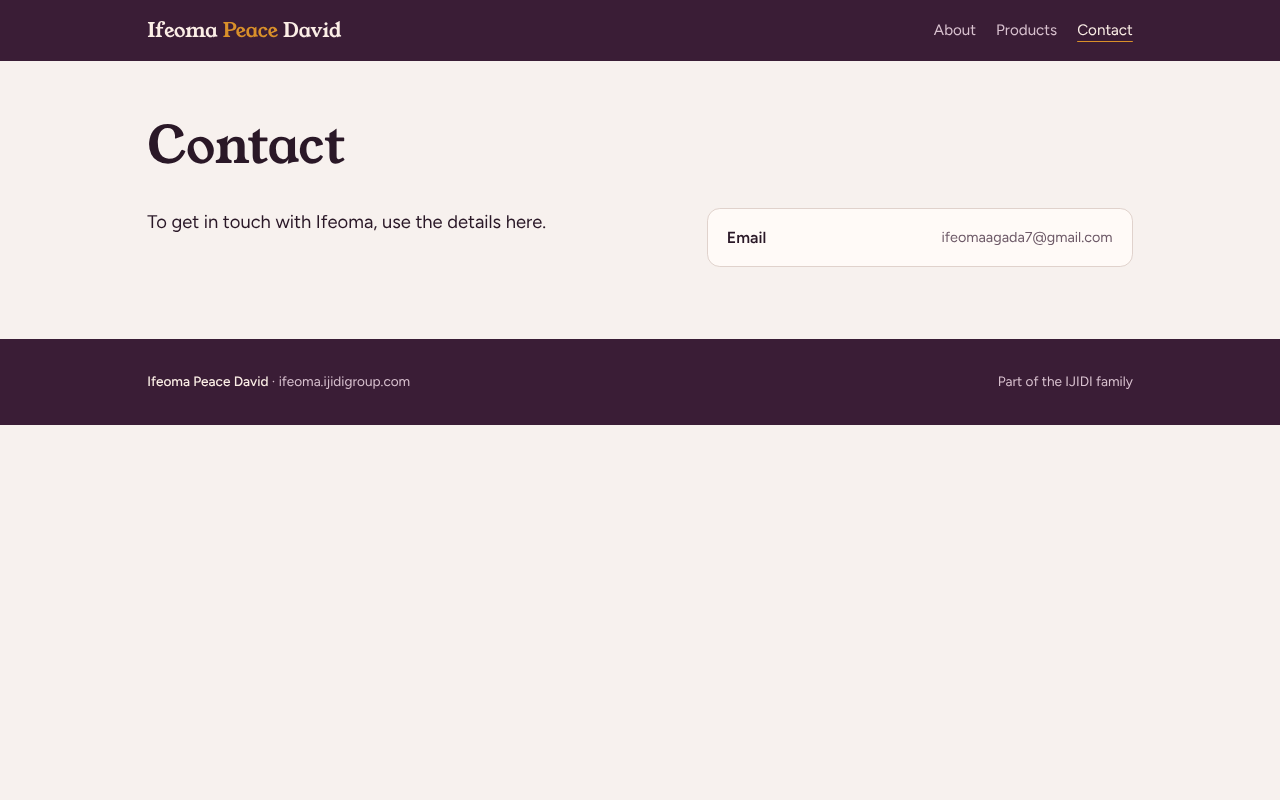
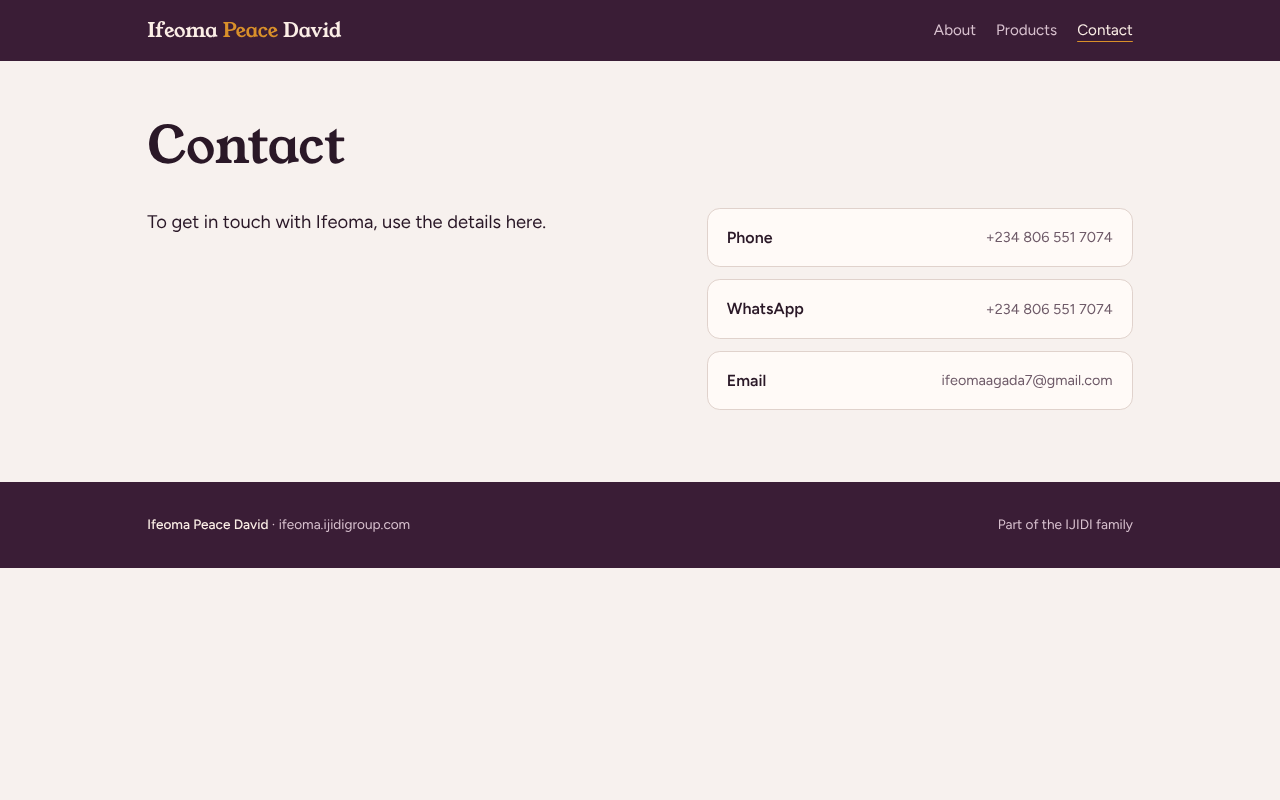
Add phone and WhatsApp to Contact
Phone (+234 806 551 7074) links with tel:, WhatsApp opens wa.me in a
new tab, and both sit above Email. Numbers are stored once in
international format in src/content.js and shown with spaces.

Claude-Session: https://claude.ai/code/session_01JR5joPnqPxFUZjK7t2UKEn

diff --git a/src/main.js b/src/main.js
@@ -9,7 +9,16 @@ const esc = (s) =>
 // Missing content renders nothing on the live site; in dev it shows where the gap is.
 const todo = (text) => (DEV ? `<div class="todo"><b>TODO:</b> ${esc(text)}</div>` : '')
 
+// '+2348065517074' -> '+234 806 551 7074' (Nigerian mobile grouping); other formats are shown as given.
+const prettyPhone = (n) => n.replace(/^\+234(\d{3})(\d{3})(\d{4})$/, '+234 $1 $2 $3')
+
 const contactRows = [
+  contact.phone && { label: 'Phone', value: prettyPhone(contact.phone), href: `tel:${contact.phone}` },
+  contact.whatsapp && {
+    label: 'WhatsApp',
+    value: prettyPhone(contact.whatsapp),
+    href: `https://wa.me/${contact.whatsapp.replace(/\D/g, '')}`,
+  },
   contact.email && { label: 'Email', value: contact.email, href: `mailto:${contact.email}` },
   contact.instagram && {
     label: 'Instagram',
@@ -147,11 +156,11 @@ function productsPage() {
 function contactPage() {
   const rows = contactRows
     .map(
-      (r) => `<a class="link" href="${esc(r.href)}"${r.label === 'Email' ? '' : ' target="_blank" rel="noopener"'}>
+      (r) => `<a class="link" href="${esc(r.href)}"${r.href.startsWith('https:') ? ' target="_blank" rel="noopener"' : ''}>
         <span>${r.label}</span><span class="val">${esc(r.value)}</span></a>`,
     )
     .join('')
-  const missing = ['email', 'instagram', 'tiktok'].filter((k) => !contact[k])
+  const missing = ['phone', 'whatsapp', 'email', 'instagram', 'tiktok'].filter((k) => !contact[k])
   return `
   <section class="page first">
     <div class="wrap">

diff --git a/src/content.js b/src/content.js
@@ -30,6 +30,8 @@ export const products = [
 
 export const contact = {
   email: 'ifeomaagada7@gmail.com',
+  phone: '+2348065517074', // international format, digits only after '+'
+  whatsapp: '+2348065517074',
   instagram: null, // TODO: handle without '@'
   tiktok: null, // TODO: handle without '@'
 }

diff --git a/PLAN.md b/PLAN.md
@@ -8,7 +8,7 @@ from `src/content.js`. Deployed on Vercel at `ifeoma.ijidigroup.com`.
 | `/`          | `index.html`            | Hero: name, IJIDI Foundation trustee, home-made natural products. Product preview. |
 | `/about/`    | `about/index.html`      | Role card: Trustee, IJIDI Foundation. Bio (hidden until supplied).      |
 | `/products/` | `products/index.html`   | "Home-made natural products": Coco Powder, Yoghurt, Custard, Petroleum Jelly, Soap. |
-| `/contact/`  | `contact/index.html`    | Email (mailto), Instagram, TikTok. Each row only if a value exists.    |
+| `/contact/`  | `contact/index.html`    | Phone (tel), WhatsApp (wa.me), Email (mailto), Instagram, TikTok. Each row only if a value exists.    |
 
 ## Still needed from Ifeoma (hidden until supplied)
 
@@ -20,6 +20,7 @@ from `src/content.js`. Deployed on Vercel at `ifeoma.ijidigroup.com`.
 - [ ] One plain description for Custard and Petroleum Jelly
 - [ ] Product photos
 - [x] Email address
+- [x] Phone and WhatsApp
 - [ ] Instagram handle
 - [ ] TikTok handle
 
